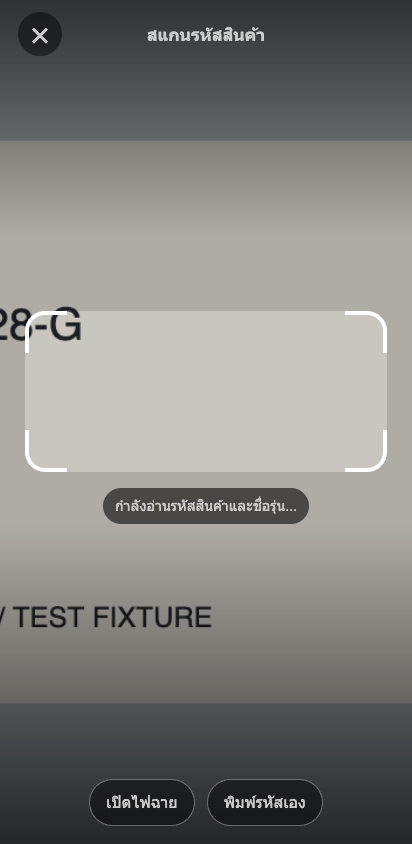
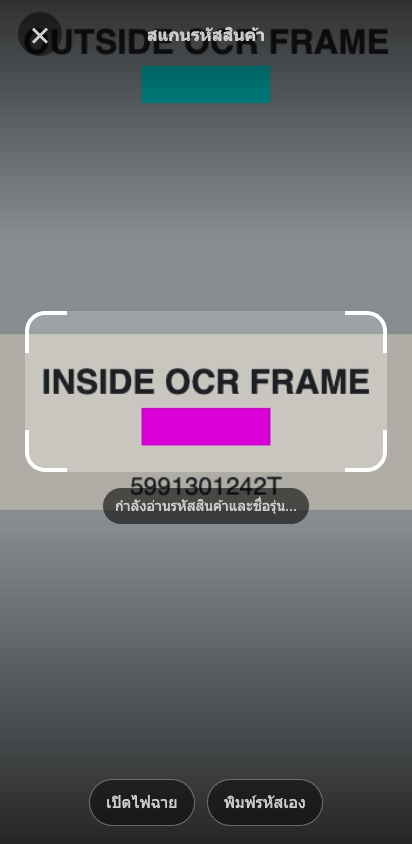
Align scanner OCR crop with visible frame

diff --git a/app.js b/app.js
@@ -779,11 +779,32 @@
     return scannerWorkerPromise;
   }
   function scannerCrop() {
-    const video = $("scannerVideo"), canvas = document.createElement("canvas");
-    let sw = Math.round(video.videoWidth * .88), sh = Math.round(sw / 2.25);
-    if (sh > video.videoHeight * .58) { sh = Math.round(video.videoHeight * .58); sw = Math.round(sh * 2.25); }
-    const sx = Math.round((video.videoWidth - sw) / 2), sy = Math.round((video.videoHeight - sh) / 2);
-    canvas.width = Math.min(sw, 1400); canvas.height = Math.round(sh * canvas.width / sw);
+    const video = $("scannerVideo"), frame = $("scannerFrame"), canvas = document.createElement("canvas");
+    const videoRect = video.getBoundingClientRect(), frameRect = frame.getBoundingClientRect();
+    const intrinsicWidth = video.videoWidth, intrinsicHeight = video.videoHeight;
+    if (!intrinsicWidth || !intrinsicHeight || !videoRect.width || !videoRect.height) throw new Error("CAMERA_NOT_READY");
+
+    // The video is rendered with object-fit: cover. Convert the visible frame
+    // from viewport coordinates back into intrinsic camera-pixel coordinates.
+    // This is recalculated for every OCR frame, so rotation and camera aspect
+    // changes are reflected without retaining stale geometry.
+    const coverScale = Math.max(videoRect.width / intrinsicWidth, videoRect.height / intrinsicHeight);
+    const renderedWidth = intrinsicWidth * coverScale, renderedHeight = intrinsicHeight * coverScale;
+    const cropOffsetX = (videoRect.width - renderedWidth) / 2;
+    const cropOffsetY = (videoRect.height - renderedHeight) / 2;
+    const rawLeft = (frameRect.left - videoRect.left - cropOffsetX) / coverScale;
+    const rawTop = (frameRect.top - videoRect.top - cropOffsetY) / coverScale;
+    const rawRight = (frameRect.right - videoRect.left - cropOffsetX) / coverScale;
+    const rawBottom = (frameRect.bottom - videoRect.top - cropOffsetY) / coverScale;
+    const sx = Math.max(0, Math.min(intrinsicWidth, rawLeft));
+    const sy = Math.max(0, Math.min(intrinsicHeight, rawTop));
+    const right = Math.max(sx, Math.min(intrinsicWidth, rawRight));
+    const bottom = Math.max(sy, Math.min(intrinsicHeight, rawBottom));
+    const sw = right - sx, sh = bottom - sy;
+    if (sw < 1 || sh < 1) throw new Error("CAMERA_FRAME_OUTSIDE_VIDEO");
+
+    canvas.width = Math.max(1, Math.min(Math.round(sw), 1400));
+    canvas.height = Math.max(1, Math.round(sh * canvas.width / sw));
     canvas.getContext("2d", { willReadFrequently: true }).drawImage(video, sx, sy, sw, sh, 0, 0, canvas.width, canvas.height);
     return canvas;
   }
@@ -827,7 +848,7 @@
       history.pushState({ ...history.state, sweeoScanner: scannerHistoryId }, "");
     } catch (_) { scannerHistoryId = null; }
     try {
-      const stream = await navigator.mediaDevices.getUserMedia({ video: { facingMode: { ideal: "environment" }, width: { ideal: 1920 }, height: { ideal: 1080 } }, audio: false });
+      const stream = await navigator.mediaDevices.getUserMedia({ video: { facingMode: { ideal: "environment" } }, audio: false });
       if (!scannerActive(run)) { stream.getTracks().forEach(track => track.stop()); return; }
       run.stream = stream;
       $("scannerVideo").srcObject = stream; await $("scannerVideo").play();

diff --git a/index.html b/index.html
@@ -282,6 +282,6 @@
 <script src="i18n.js?v=zh-TW-1"></script>
 <script src="delivery-note.js?v=zh-TW-1"></script>
 <script src="scanner.js?v=phase-5-3"></script>
-<script src="app.js?v=scanner-dialog-1"></script>
+<script src="app.js?v=scanner-crop-1"></script>
 </body>
 </html>

diff --git a/docs/scanner-dialog-fix.md b/docs/scanner-dialog-fix.md
@@ -11,14 +11,16 @@ The entry form uses `showModal()` and occupies the browser top layer. The previo
 - `index.html`: scanner is a dialog, opened after the entry dialog; video retains `playsinline`. Updated frontend cache versions.
 - `style.css`: full viewport camera dialog, reset native dialog dimensions/spacing/backdrop, scrollable candidate list.
 - `app.js`: scoped camera sessions; invalidate stale OCR and permission results; stop tracks/timers and close scanner on entry close; preserve entry rows on scanner close; focus quantity after accepting a scan. Esc and a temporary browser history entry let Back close the camera without dismissing the form. Stop camera when page is hidden or left.
+- `app.js`: map the visible scanner frame through the video's `object-fit: cover` scale and offsets into intrinsic camera pixels. The crop is recalculated for each OCR pass, including after rotation, and camera constraints no longer request a fixed landscape resolution.
 - No schema migration, database requests, stock changes or permission changes in this fix.
 
 ## Verification
 
 - `node --test tests/*.test.mjs`: **38/38 passed**.
-- `tests/browser/scanner-dialog.cjs`: **12/12 passed in Chrome, 12/12 passed in WebKit** with mobile viewport/touch settings.
+- `tests/browser/scanner-dialog.cjs`: **13/13 passed in Chrome, 13/13 passed in WebKit** with mobile viewport/touch settings.
 - Both browser suites use a real canvas MediaStream; camera input, OCR output, torch capability and database reads are simulated. They do not contact the production database.
-- Covered: modal/fullscreen geometry, clickable torch and candidates, close preserving rows/quantities, accepting/focusing quantity, two models and duplicate scan, manual entry, Esc, browser Back, parent close, late permission, stale OCR after close/reopen.
+- The crop check does not mock its positional result: it inspects the pixels of the actual canvas passed to `worker.recognize`. A magenta marker inside the visible frame must be present and a cyan marker outside the frame must be absent. This passes for landscape 1280×720 and portrait 720×1280 camera streams on a portrait mobile viewport.
+- Covered: visible-frame crop mapping, orientation change, modal/fullscreen geometry, clickable torch and candidates, close preserving rows/quantities, accepting/focusing quantity, two models and duplicate scan, manual entry, Esc, browser Back, parent close, late permission, stale OCR after close/reopen.
 - `git diff --check`: passed.
 
 Run a local HTTP server on port 8765; install Playwright and its WebKit browser, then run:
@@ -32,7 +34,7 @@ Set `NODE_PATH` when Playwright is not locally installed, `CHROME_PATH` if Chrom
 
 ## Screenshots — simulated camera, not physical devices
 
-[Chrome](screenshots/scanner-dialog/chromium-simulated-camera.png) · [WebKit](screenshots/scanner-dialog/webkit-simulated-camera.png)
+[Chrome landscape stream](screenshots/scanner-dialog/chromium-simulated-camera.png) · [Chrome portrait stream](screenshots/scanner-dialog/chromium-simulated-camera-portrait.png) · [WebKit landscape stream](screenshots/scanner-dialog/webkit-simulated-camera.png) · [WebKit portrait stream](screenshots/scanner-dialog/webkit-simulated-camera-portrait.png)
 
 ## Physical-device acceptance still required
 
